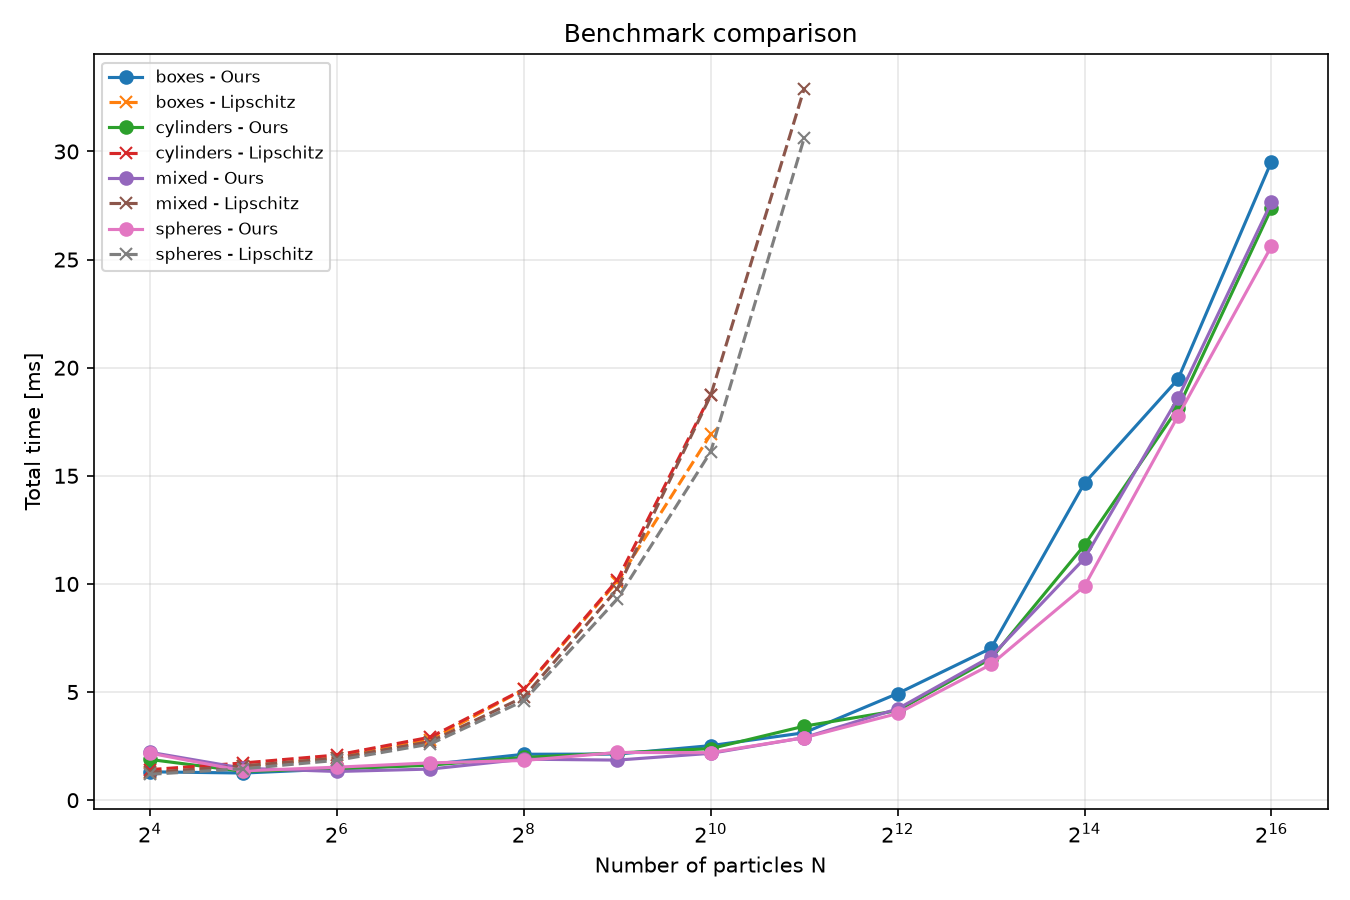
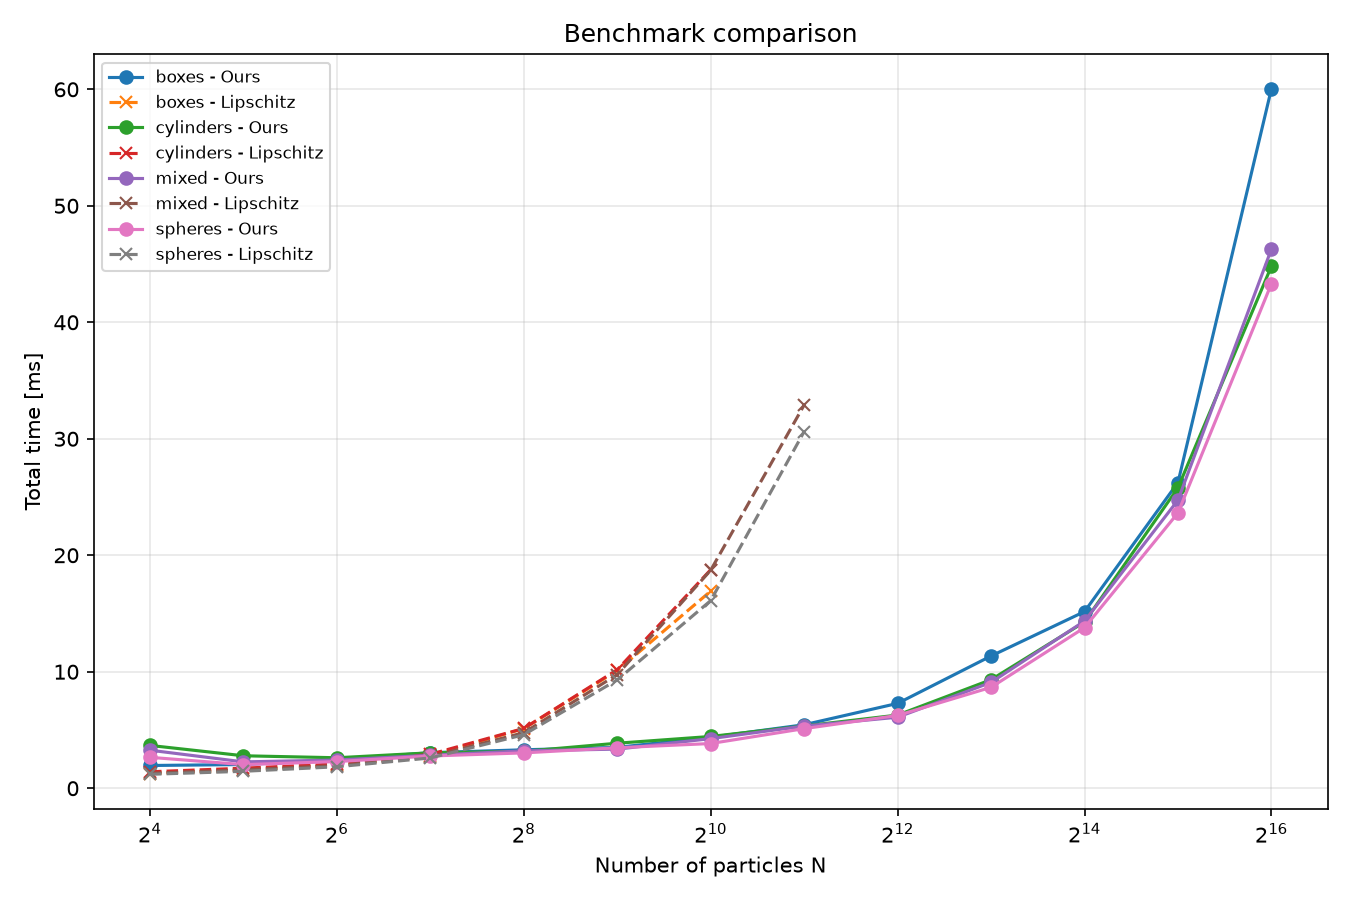
Working radix sort

diff --git a/shaders/shaderio.h b/shaders/shaderio.h
@@ -7,10 +7,12 @@
 #define CHECK_STRUCT_ALIGNMENT(_s) static_assert(sizeof(_s) % 8 == 0);
 #define CHECK_GRID_ALIGNMENT(_s) static_assert((_s) % 8 == 0);
 #define CHECK_ARRAY_SIZE(_a) static_assert(int(sizeof(_a) / sizeof((_a)[0])) == CLIPMAP_LEVELS)
+#define CHECK_24_BIT_LIMIT(_s) static_assert((_s) < (1<<24));
 #elif defined(__SLANG__)
 #define CHECK_STRUCT_ALIGNMENT(_s)
 #define CHECK_GRID_ALIGNMENT(_s)
 #define CHECK_ARRAY_SIZE(_a)
+#define CHECK_24_BIT_LIMIT(_s)
 #endif
 
 #include "nvshaders/slang_types.h"
@@ -24,6 +26,7 @@ NAMESPACE_SHADERIO_BEGIN()
 
 // Buffers static max limit
 #define MAX_SCENE_OBJECTS 2048*8*4
+CHECK_24_BIT_LIMIT(MAX_SCENE_OBJECTS)
 #define MAX_SCENE_DYNAMIC_OBJECTS 512
 #define MAX_MATERIALS 32
 #define BRICK_PER_ATLAS_AXIS 512
@@ -40,7 +43,7 @@ CHECK_GRID_ALIGNMENT(NUM_BRICKS_PER_AXIS) // Power of two needed for faster calc
 #define MAT_PER_BRICK_AXIS  0   // How many materials are stored per brick axis. Needs to be >= 2 to work, if not it deactivates
 
 // Near objects list atlas
-#define NEAR_OBJECT_LIST_SIZE 512*4 // How big is the near object list that the brick jobs use. Needs to be >= 1 to work, if not it deactivates
+#define NEAR_OBJECT_LIST_SIZE 512*8 // How big is the near object list that the brick jobs use. Needs to be >= 1 to work, if not it deactivates
 
 // Extent calculations
 const static int NUM_VOXELS_PER_AXIS = NUM_BRICKS_PER_AXIS*(BRICK_SIZE-1);
